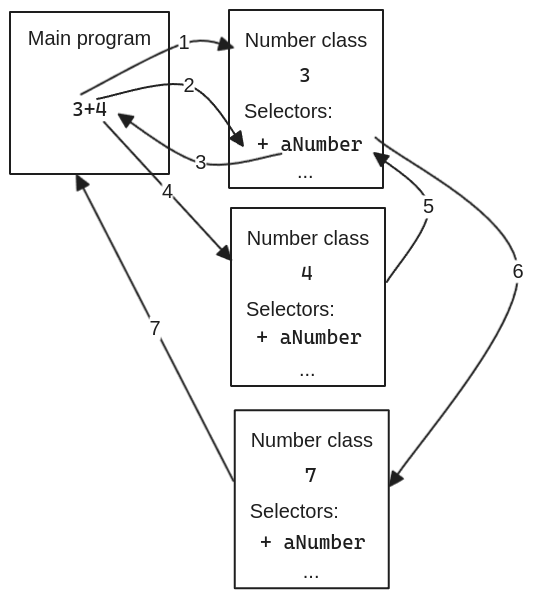
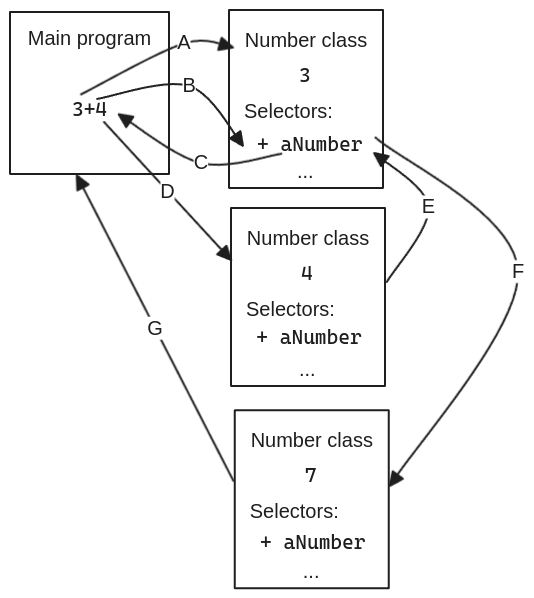
Further work on chapter3

diff --git a/Thesis/chapters/chapter3.tex b/Thesis/chapters/chapter3.tex
@@ -20,13 +20,35 @@ The selector \stcode{+} also takes one argument, which in this case is a referen
 
 To illustrate the following explanation further, see \Cref{fig:illust3+4}. The boxes in this figure represent the boundaries of a context, the arrows indicate direct or implicit communication between contexts.
 
-When receiving the message (1), the object \stcode{3} looks up the selector in its class definition (2). 
-The definition defines a second argument \stcode{aNumber}, the second number for the addition. The implicit call (3) fetches the reference of this argument (4) and forwards it to the context of \stcode{3} (5).
+When receiving the message (A), the object \stcode{3} looks up the selector in its class definition (B). 
+The definition defines a second argument \stcode{aNumber}, the second number for the addition. The implicit call (C) fetches the reference of this argument (D) and forwards it to the context of \stcode{3} (E).
 Now the object \stcode{3} performs the defined procedure (in this case the arithmetic addition of 3 and 4). 
-As a result of this addition, a reference to the number object \stcode{7} is created (6) and returned to the calling context, the sender (7). 
+As a result of this addition, a reference to the number object \stcode{7} is created (F) and returned to the calling context, the sender (G). 
 
 \image[h]{\textwidth}{illust3+4}{Illustration of the context switching and message passing of the procedure \stcode{3+4}}{illust3+4}
 
+The virtual machine operates like a classic stack machine. Each context has it's own stack. When switching contexts, the receivers stack is initialized with a reference to the sender. Instructions push and pop values to and from the active stack, store values in memory or are used to trigger the transmission of a message between contexts. 
+
 \section{Structure of Instructions}
+In total the Smalltalk-80 virtual machine recognizes 248 bytecode encodings. These bytecodes are encoded within one byte and numbered 0 through 255 with 8 encodings being left unused. 
+While this amount of bytecodes seems rather high, these are actually only 29 real instructions. 
+
+The vast majority of instructions utilizes parts of its bytecode for the argument to the instruction. For example the instruction to push a constant to the stack is only specified by the 3 highest bits in the form of \texttt{001}. The remaining 5 bits are used to encode the constant number that should be pushed to the stack. 
+
+Alternatively there are also instructions which are encoded utilizing the full 8 bit. These instructions take one or two complete bytes as input. In these cases the virtual machine just treats the following bytes as arguments to the instruction. 
+
+Lastly there are 3 long jump instructions (160 to 175) which apply both of these encodings.
+
+\Cref{fig:st-bytecodes} shows a table of all Smalltalk-80 instructions, their bytecode ranges and their encoding patterns.The table is taken directly from the language specification.
+
+\image[h]{\textwidth}{st-bytecodes}{Encoding table for the Smalltalk-80 bytecodes}{st-bytecodes}
+
+For the purpose of this thesis, we can simplify the categorization of these instructions into 4 groups: 
+\begin{itemize}
+  \item Stack bytecodes: These instructions directly modify the stack. 
+  \item Return bytecodes: These instructions are used to return from one context to the sender, they are mostly used to return the result from a message. 
+  \item Send bytecodes: The inverse of the return bytecodes, they send a message to a receivers selector.
+  \item Jump bytecodes: This groups together the 5 explicit jump instructions.
+\end{itemize}
 
 \section{Implementation of the interpreter}
